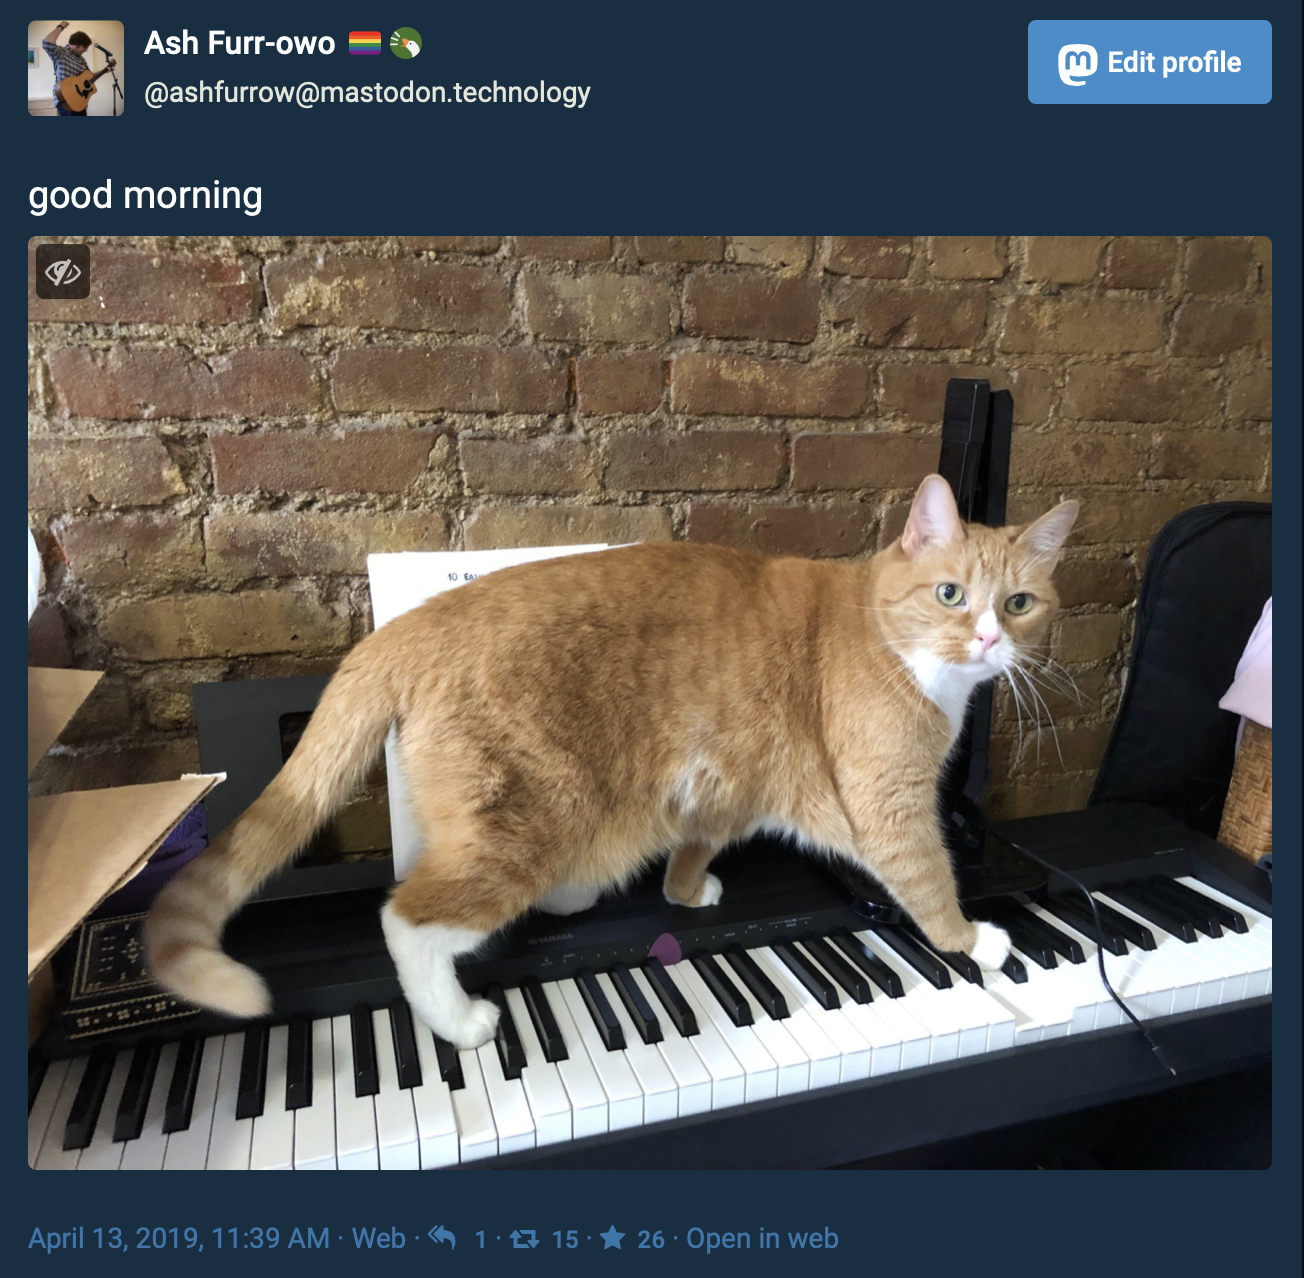
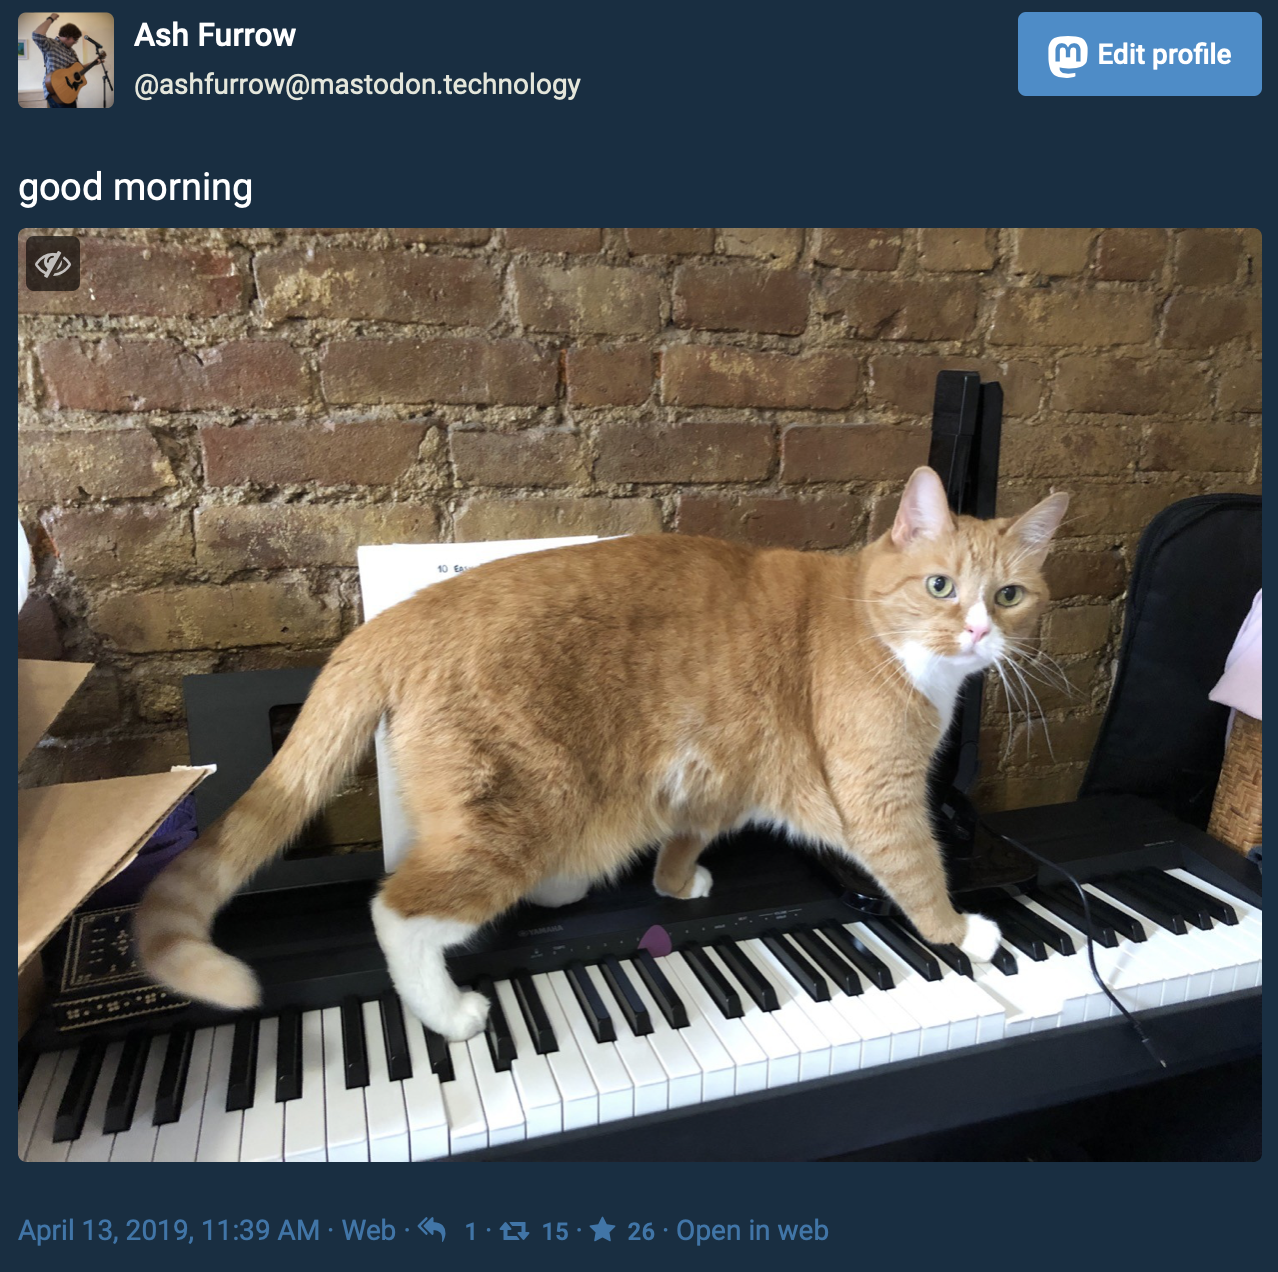
More images!

diff --git a/blog/2019-12-01-5-more-years/Timeline2.tsx b/blog/2019-12-01-5-more-years/Timeline2.tsx
@@ -10,6 +10,10 @@ import Theme from '../../config/Theme'
 import Wide from '../../src/components/Wide'
 import { camelCase } from 'lodash'
 
+import mxteam from './mxteam.png'
+import greguniverse from './greguniverse.jpg'
+import ikea from './ikea.jpg'
+import eclipse from './eclipse.jpg'
 import artworkpage from './artworkpage.png'
 import pianocat from './pianocat.png'
 import moya from './moya.png'
@@ -439,6 +443,22 @@ export class Timeline2 extends React.Component {
               </p>
             </Entry>
 
+            <Entry title="Coalition for Queens">
+              <p>
+                Around this time, Orta connected me to a non-profit coding
+                bootcamp called Coalition for Queens (they have since rebranded
+                as <a href="https://www.pursuit.org">Pursuit</a>). C4Q provides
+                education for underrepesented groups in tech, and Orta and I
+                started consulting on their iOS curriculum.
+              </p>
+              <p>
+                Over the years, I and other Artsy engineers have helped C4Q
+                through mentionship volunteering, judging hackathons, performing
+                mock job interviews, and more. It's been really rewarding and
+                I've made a lot of friends.
+              </p>
+            </Entry>
+
             <Entry title="SINFO" img={sinfo}>
               <p>
                 Early in the year, I took a trip around the world. First, to
@@ -455,10 +475,10 @@ export class Timeline2 extends React.Component {
                 <a href="https://www.imdb.com/name/nm0270665/">
                   Danielle Feinberg
                 </a>
-                , a lighting artist and director of photography at Pixar. We got
-                to chat over a few meals at the conference, she even attended my
-                talk on functional reactive programming. She had a big impact on
-                me and my career.
+                , a lighting artist and director of photography at Pixar. She
+                and I got to chat over a few meals at the conference, and she
+                even attended my talk on functional reactive programming!
+                Meeting Danielle Feinberg had a big impact on me and my career.
               </p>
               <p>
                 Getting to speak on the same stage, I felt the difference in
@@ -472,9 +492,10 @@ export class Timeline2 extends React.Component {
                 And I was talking about FRP. Important, I guess, but at a very
                 different scale. Danielle Feinberg inspired me because the
                 message she was telling was so much bigger than I was used to
-                thinking about, in a conference talk context. Looking back, I
-                can see a big turn in my own conference talks after I saw how
-                Danielle's talk on combing technology and art.
+                thinking about in conference talks. Meeting her and watching her
+                talk, combining art and technology, resulted in a shift in how I
+                think the stories I want to tell. My conference talks would
+                never ne the same.
               </p>
             </Entry>
 
@@ -920,7 +941,7 @@ export class Timeline2 extends React.Component {
               </p>
             </Entry>
 
-            <Entry title="Staying in New York?">
+            <Entry title="Staying in New York?" img={eclipse}>
               <p>
                 My wife Ashley and I had always toyed with moving home to
                 Canada. Well, not "home" to Canada: we were from rural Canada
@@ -937,13 +958,14 @@ export class Timeline2 extends React.Component {
                 We actually couldn't be there for our niece's birth because of
                 restrictions during our immigration process. The process made us
                 re-evaluate what we wanted out of life and where we could live
-                to get that. Since we had some roots put down into New York, and
-                it's relatively close to our family (compared to Amsterdam or
-                Vancouver), we decided to stay here for the time being.
+                to get that. New York is close enough to our family that, once
+                our immigration process completes, visiting home would be easy.
+                And to be honest? We have put down some roots here. Our friends
+                here mean a lot to us. New York was starting to feel like home.
               </p>
             </Entry>
 
-            <Entry title="A Broadening Technical Perspective">
+            <Entry title="A Broadening Technical Perspective" img={ikea}>
               <p>
                 Late in 2017, I wrote{' '}
                 <em>
@@ -994,7 +1016,7 @@ export class Timeline2 extends React.Component {
               </p>
             </Entry>
 
-            <Entry title="Steven Universe, omg">
+            <Entry title="Steven Universe, omg" img={greguniverse}>
               <p>
                 Late in 2016, I was enjoying Steven Universe so much that I
                 bought a ukulele and started learning the songs from the show. A
@@ -1303,7 +1325,7 @@ export class Timeline2 extends React.Component {
               </p>
             </Entry>
 
-            <Event title="Physical Therapy">
+            <Entry title="Physical Therapy">
               <p>
                 Late in 2018, I finally took up a recommendation from some
                 colleagues to see their physical therapist. I'd been battling
@@ -1325,7 +1347,7 @@ export class Timeline2 extends React.Component {
                 before undergoing drastic interventions, make sure to get a
                 second opinion.
               </p>
-            </Event>
+            </Entry>
 
             <Event className="year" date="2019" />
 
@@ -1528,7 +1550,7 @@ export class Timeline2 extends React.Component {
                 can't exist anymore.
               </p>
               <p>
-                That said, I'm also excited for the Artsy that is coming into
+                But I'm also excited for the Artsy that is coming into
                 existence. It's easy to only see the downsides of change, but
                 2019 has been a crash course in seeing the opportunities, too.
                 Orta's not around anymore to own Artsy's iOS stack, but that's
@@ -1560,7 +1582,7 @@ export class Timeline2 extends React.Component {
                 ). My take on it is this: as a Senior Engineer, it was my
                 responsibility to be productive. As a Staff Engineer, it's my
                 responsibility to make <em>everyone</em> productive: my team,
-                the whole Artsy company, the entire software industry.
+                Artsy as a whole, and the entire software industry. Everyone.
               </p>
               <p>
                 I mentioned{' '}
@@ -1588,7 +1610,7 @@ export class Timeline2 extends React.Component {
                 </a>
                 . These changes are felt at every level of the company. After
                 the changes to the Product/Engineering organization in 2018, I
-                feel prepared to handle these changes at Artsy.
+                felt prepared to handle these changes at Artsy.
               </p>
             </Entry>
 
@@ -1629,12 +1651,12 @@ export class Timeline2 extends React.Component {
                 I wrote the blog post at Peer Lab in the morning, but in my
                 head, I'd been writing it for months. I got my wife to read it
                 over for typos (she often helps me edit my posts, thank you
-                Ashley 🙏) and then pushed it into the world.
+                Ashley 🙏) and then pushed it into the world.{' '}
                 <a href="https://twitter.com/ashfurrow/status/1137463336235347969">
                   I tweeted about it
                 </a>
                 . People responded with overwhelming support and positivity. It
-                felt (mostly) amazing.
+                felt amazing.
               </p>
               <p>
                 <a href="https://thenib.com/i-came-out-late-and-that-s-okay">
@@ -1643,6 +1665,10 @@ export class Timeline2 extends React.Component {
                 (the image credits for this comic) isn't a common coming-out
                 story, and it involves navigating a lot of emotions. But I'm not
                 alone, and I'm excited to be my whole self.
+              </p>
+              <p>
+                Image credit:{' '}
+                <a href="https://twitter.com/aliwilgus">Alison Wilgus</a>.
               </p>
             </Entry>
 
@@ -1670,13 +1696,13 @@ export class Timeline2 extends React.Component {
               </p>
               <p>
                 There is more responsibility to shoulder than just the technical
-                aspects of Artsy's products, though. The departures of dB, Orta,
-                and now Eloy, have left our engineering team short on
-                cheerleaders: people who guide and shape Artsy's culture by
-                empowering people to succeed <em>in</em> that culture.
-                Throughout the changes at Artsy (and the inevitable culture
-                turbulence that comes with <em>any</em> company change), I found
-                myself steping up.
+                aspects of Artsy's products, though. Departures by dB, Orta, and
+                now Eloy, all left our engineering team short on cheerleaders.
+                Cheerleaders are people who guide and shape Artsy's culture by
+                empowering people to succeed <em>in</em> the culture they want
+                to build. Throughout the changes at Artsy this year (and the
+                inevitable culture turbulence that comes with <em>any</em>{' '}
+                company change), I found myself steping up.
               </p>
               <p>
                 I'm putting my principles into action. All my research into team
@@ -1696,7 +1722,7 @@ export class Timeline2 extends React.Component {
               </p>
             </Entry>
 
-            <Entry title="Mobile Experience Team">
+            <Entry title="Mobile Experience Team" img={mxteam}>
               <p>
                 When I returned from vacation in August, I found an{' '}
                 <a href="https://github.com/artsy/README/blob/master/playbooks/rfcs.md">
@@ -1733,10 +1759,9 @@ export class Timeline2 extends React.Component {
                 I've gained a really wide perspective on software development,
                 and it's time to zoom back in on a technical domain that I am so
                 intimately familiar with. I'm still new to being a Tech Lead,
-                but by all accounts, I am <em>killing</em> it. I feel proud of
-                what we've already accomplished, I feel empowered by everyone
-                around me, and I am <em>so</em> excited for the future of
-                iOS/mobile at Artsy.
+                but by all accounts, I am <em>killing</em> it. We have already
+                accomplished so much as a team. The future of iOS at Artsy is
+                very bright.
               </p>
             </Entry>
           </Events>
